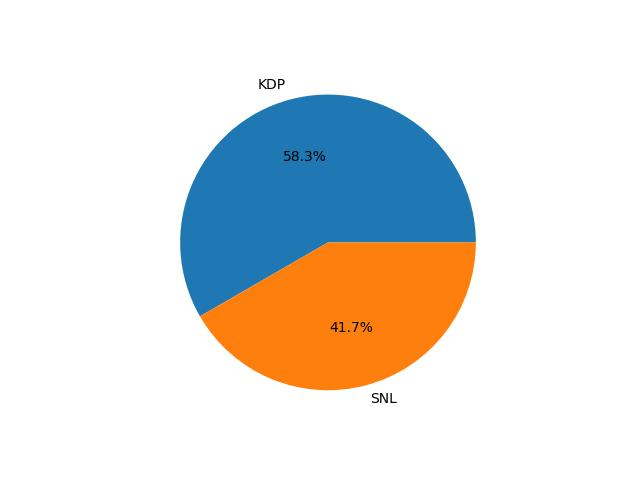
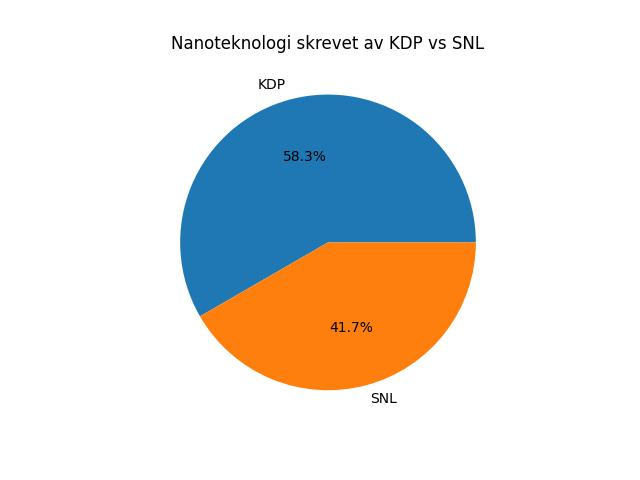
added documentation and title to the plot

Changed region(s): [[0.25, 0.0625, 0.75, 0.125]]

diff --git a/main.py b/main.py
@@ -18,6 +18,7 @@ article_links = [x.get('href') for x in articles]
 for i in range(0,len(article_links)):
     with urllib.request.urlopen(article_links[i]) as raw:
         soup = BeautifulSoup(raw)
+    # Each article can have multiple authors its considered written by kdp if atleas one of the co-athors are from kdp
     athour_links = soup.find_all('li', class_ = 'author-list__author')  
     writer_class = []
     for items in athour_links:
@@ -25,14 +26,16 @@ for i in range(0,len(article_links)):
         with urllib.request.urlopen(profile_link) as raw:
             soup = BeautifulSoup(raw)
 
+        #this takes into consideration if the profile lacks a p-tag
         try: 
             writer_class.append(str(soup.find(id = 'profileName').p.string))
         except:
             writer_class.append("classless")
         
-    
+    #makes it easier to identify "fagmedarbeider"
     writer_class = ''.join(writer_class)
-    if ('fagmedarbeider' in writer_class) or article_names[i] == "gray goo":
+    #The athor of gray goo does not have the fagmederbeider title but is in the total overview in the drive
+    if ('fagmedarbeider' in writer_class) or article_names[i] == "gray goo": 
         kdp_articles.append(article_names[i])
     else:
         non_kdp_artilces.append(article_names[i])
@@ -42,6 +45,7 @@ sizes = [len(kdp_articles), len(non_kdp_artilces)]
 
 fig, ax = plt.subplots()
 ax.pie(sizes, labels=labels, autopct='%1.1f%%')
+ax.set_title("Nanoteknologi skrevet av KDP vs SNL")
 plt.savefig("overview.jpeg")
 
 
